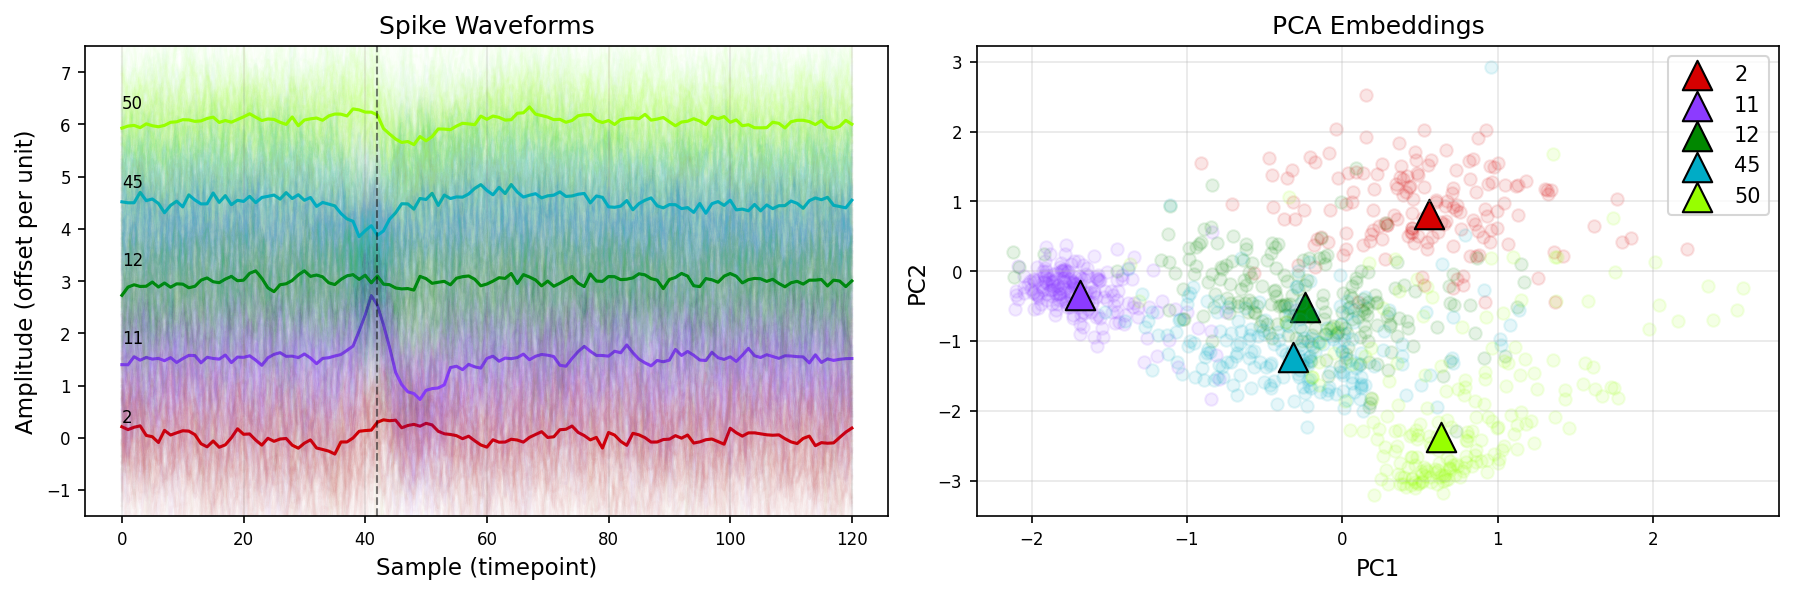
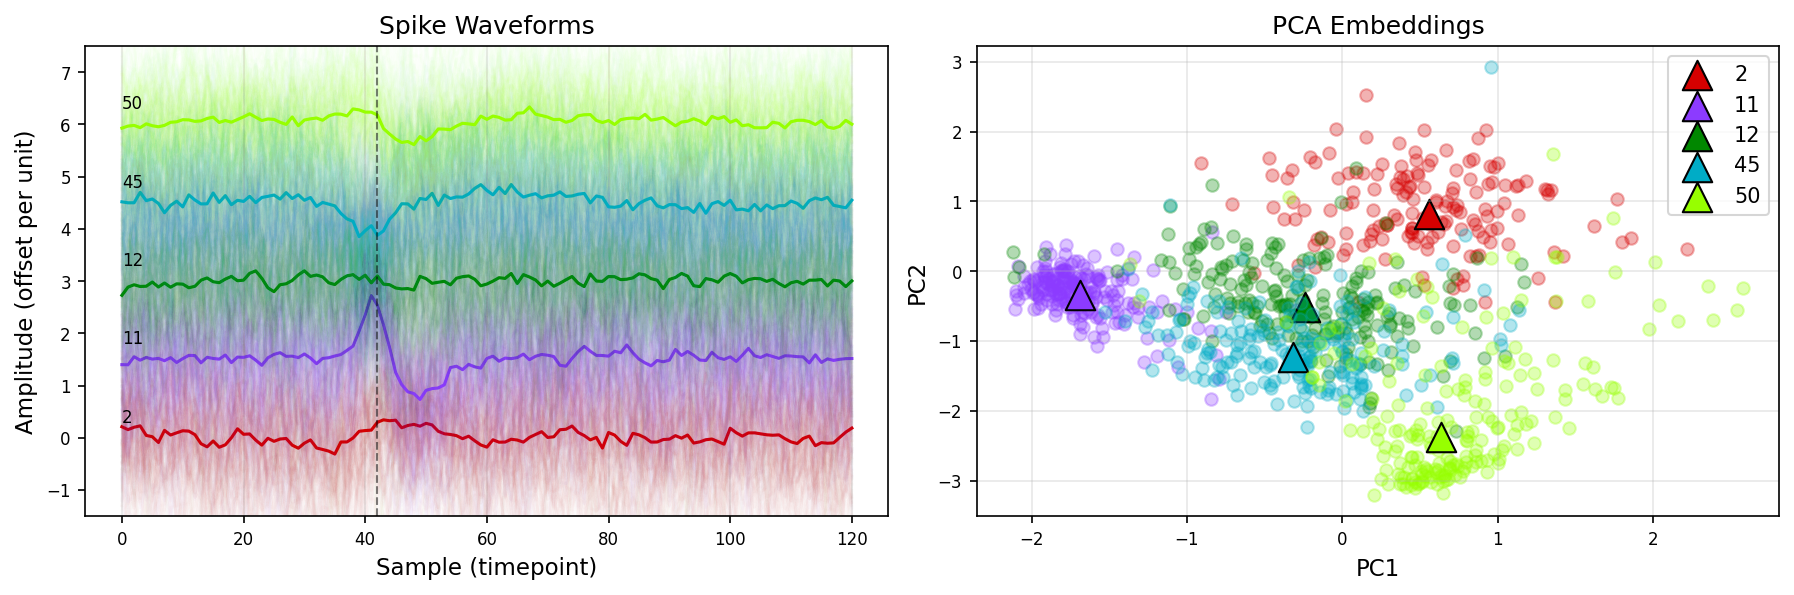
celltype_not_really

diff --git a/notebooks/infer.py b/notebooks/infer.py
@@ -183,7 +183,7 @@ for i, unit_id in enumerate(unit_ids):
         
     print(f"Unit {unit_id}: Marker at ({pc_template_emb[0]:.3f}, {pc_template_emb[1]:.3f})")
     
-    axes.scatter(unit_ceed_emb[:,0], unit_ceed_emb[:,1], color=colors[i], alpha=.2)
+    axes.scatter(unit_ceed_emb[:,0], unit_ceed_emb[:,1], color=colors[i], alpha=.3)
     axes.scatter(pc_template_emb[0], pc_template_emb[1], color=colors[i], alpha=1,
                 marker="^", s=200, label=str(unit_id), edgecolors='black', linewidths=1)
 
@@ -255,7 +255,7 @@ for i, unit_id in enumerate(unit_ids):
     axes[0].plot(template.T + vertical_offset, color=colors[i], alpha=1)
     axes[0].annotate(str(unit_id), xy=(0,vertical_offset+.3))
     vertical_offset += 1.5
-    axes[1].scatter(unit_ceed_emb[:,0], unit_ceed_emb[:,1], color=colors[i], alpha=.1)
+    axes[1].scatter(unit_ceed_emb[:,0], unit_ceed_emb[:,1], color=colors[i], alpha=.3)
     axes[1].scatter(pc_template_emb[0], pc_template_emb[1], color=colors[i], alpha=1,
                    marker="^", s=200, label=str(unit_id), edgecolors='black', linewidths=1)
 
@@ -303,7 +303,7 @@ for i, unit_id in enumerate(unit_ids):
     vertical_offset += 1.5
     
     # For UMAP, use median of embeddings (can't project new samples through fitted UMAP)
-    axes[1].scatter(unit_ceed_emb[:,0], unit_ceed_emb[:,1], color=colors[i], alpha=.1)
+    axes[1].scatter(unit_ceed_emb[:,0], unit_ceed_emb[:,1], color=colors[i], alpha=.3)
     median_emb = np.median(unit_ceed_emb, 0)
     axes[1].scatter(median_emb[0], median_emb[1], color=colors[i], alpha=1,
                    marker='*', s=200, label=str(unit_id), 
@@ -328,14 +328,205 @@ plt.savefig('umap_embeddings_with_waveforms.png', dpi=150, bbox_inches='tight')
 print('Saved: umap_embeddings_with_waveforms.png')
 
 
-
-# %% [markdown]
-# ### Transform without a data folder
-
-# %%
 # same output as two cells above, but takes in actual data
 cell_type_inference_data = np.load(os.path.join(celltype_test_data, 'spikes_test.npy'))
 print("cell type data:", cell_type_inference_data.shape)
 transformed_inference_data = fc_celltype_ceed_5d.transform(cell_type_inference_data)
 print(transformed_inference_data.shape)
 
+
+# ...existing code...
+
+# %%
+# Automatic cell type discovery using GMM clustering (CEED's approach)
+from sklearn.mixture import GaussianMixture
+from sklearn.metrics import silhouette_score
+
+print("\n" + "="*60)
+print("AUTOMATIC CELL TYPE DISCOVERY WITH GMM")
+print("="*60)
+
+# Use the 5D embeddings (before PCA) for clustering
+embeddings_5d = fc_pca_ceed_emb_nonzero  # Shape: (N, 105) after flattening
+
+# Scan 1-10 clusters and select best by BIC
+n_clusters_range = range(2, 11)
+bic_scores = []
+silhouette_scores = []
+gmm_models = []
+
+for n_clusters in n_clusters_range:
+    gmm = GaussianMixture(n_components=n_clusters, 
+                          covariance_type='full',
+                          random_state=42,
+                          n_init=10)
+    gmm.fit(embeddings_5d)
+    bic = gmm.bic(embeddings_5d)
+    bic_scores.append(bic)
+    gmm_models.append(gmm)
+    
+    # Silhouette score (alternative metric)
+    labels_pred = gmm.predict(embeddings_5d)
+    sil_score = silhouette_score(embeddings_5d, labels_pred)
+    silhouette_scores.append(sil_score)
+    
+    print(f"n_clusters={n_clusters}: BIC={bic:.1f}, Silhouette={sil_score:.3f}")
+
+# Find elbow in BIC curve
+bic_scores = np.array(bic_scores)
+bic_diffs = np.diff(bic_scores)
+bic_diffs2 = np.diff(bic_diffs)  # Second derivative
+elbow_idx = np.argmax(bic_diffs2) + 1  # +1 for diff offset, +1 for range start
+n_clusters_elbow = list(n_clusters_range)[elbow_idx]
+
+# Use minimum BIC as final choice
+n_clusters_best = list(n_clusters_range)[np.argmin(bic_scores)]
+
+print(f"\n*** Best by BIC minimum: {n_clusters_best} clusters ***")
+print(f"*** Best by BIC elbow: {n_clusters_elbow} clusters ***")
+
+# Use BIC minimum (standard approach)
+best_gmm = gmm_models[np.argmin(bic_scores)]
+celltype_labels_gmm = best_gmm.predict(embeddings_5d)
+
+# Create cell type names based on waveform characteristics
+celltype_names_gmm = {}
+for ct_id in np.unique(celltype_labels_gmm):
+    ct_spikes = spikes_nonzero[celltype_labels_gmm == ct_id]
+    ct_template = np.median(ct_spikes, 0)
+    
+    # Calculate spike width (trough to peak)
+    trough_idx = np.argmin(ct_template)
+    peak_idx = np.argmax(ct_template)
+    spike_width = abs(peak_idx - trough_idx)
+    
+    # Classify as narrow or broad
+    if spike_width < 15:
+        celltype_names_gmm[ct_id] = f'Type {ct_id}: Narrow-spiking'
+    elif spike_width < 25:
+        celltype_names_gmm[ct_id] = f'Type {ct_id}: Medium-spiking'
+    else:
+        celltype_names_gmm[ct_id] = f'Type {ct_id}: Broad-spiking'
+
+print(f"\nDiscovered cell types:")
+for ct_id, ct_name in celltype_names_gmm.items():
+    count = np.sum(celltype_labels_gmm == ct_id)
+    pct = 100 * count / len(celltype_labels_gmm)
+    print(f"  {ct_name}: {count} spikes ({pct:.1f}%)")
+
+# %%
+# Plot BIC curve and silhouette scores
+fig, axes = plt.subplots(1, 2, figsize=(12, 4))
+
+# Left: BIC curve
+axes[0].plot(list(n_clusters_range), bic_scores, 'bo-', linewidth=2, markersize=8)
+axes[0].axvline(n_clusters_best, color='red', linestyle='--', linewidth=2, 
+               label=f'Best (BIC min): {n_clusters_best}')
+axes[0].axvline(n_clusters_elbow, color='orange', linestyle='--', linewidth=2, 
+               label=f'Elbow: {n_clusters_elbow}')
+axes[0].set_xlabel('Number of clusters', fontsize=12)
+axes[0].set_ylabel('BIC (lower is better)', fontsize=12)
+axes[0].set_title('GMM Model Selection: BIC Curve', fontsize=13, fontweight='bold')
+axes[0].legend(fontsize=10)
+axes[0].grid(alpha=0.3)
+
+# Right: Silhouette scores
+axes[1].plot(list(n_clusters_range), silhouette_scores, 'go-', linewidth=2, markersize=8)
+axes[1].axvline(n_clusters_best, color='red', linestyle='--', linewidth=2, 
+               label=f'BIC choice: {n_clusters_best}')
+axes[1].set_xlabel('Number of clusters', fontsize=12)
+axes[1].set_ylabel('Silhouette score (higher is better)', fontsize=12)
+axes[1].set_title('Cluster Quality: Silhouette Score', fontsize=13, fontweight='bold')
+axes[1].legend(fontsize=10)
+axes[1].grid(alpha=0.3)
+
+plt.tight_layout()
+plt.savefig('gmm_model_selection.png', dpi=150, bbox_inches='tight')
+print('Saved: gmm_model_selection.png')
+
+# %%
+# Visualize discovered cell types
+fig, axes = plt.subplots(2, 2, figsize=(14, 10))
+
+unique_celltypes_gmm = np.unique(celltype_labels_gmm)
+colors_celltypes = cc.glasbey[:len(unique_celltypes_gmm)]
+
+# Top left: Cell type waveforms overlaid
+for i, ct_id in enumerate(unique_celltypes_gmm):
+    ct_spikes = spikes_nonzero[celltype_labels_gmm == ct_id]
+    ct_name = celltype_names_gmm.get(ct_id, f'Type {ct_id}')
+    
+    sample_idx = np.random.choice(len(ct_spikes), size=min(100, len(ct_spikes)), replace=False)
+    axes[0, 0].plot(ct_spikes[sample_idx].T, color=colors_celltypes[i], alpha=0.02)
+    
+    template = np.median(ct_spikes, 0)
+    axes[0, 0].plot(template, color=colors_celltypes[i], linewidth=3, label=ct_name)
+
+axes[0, 0].axvline(42, color='black', linestyle='--', alpha=0.5)
+axes[0, 0].set_xlabel('Sample (timepoint)', fontsize=11)
+axes[0, 0].set_ylabel('Amplitude', fontsize=11)
+axes[0, 0].set_title('Discovered Cell Type Waveforms', fontsize=12, fontweight='bold')
+axes[0, 0].legend(fontsize=9)
+axes[0, 0].grid(alpha=0.3, axis='x')
+
+# Top right: Cell type waveforms stacked
+vertical_offset = 0
+for i, ct_id in enumerate(unique_celltypes_gmm):
+    ct_spikes = spikes_nonzero[celltype_labels_gmm == ct_id]
+    ct_name = celltype_names_gmm.get(ct_id, f'Type {ct_id}')
+    
+    sample_idx = np.random.choice(len(ct_spikes), size=min(50, len(ct_spikes)), replace=False)
+    axes[0, 1].plot(ct_spikes[sample_idx].T + vertical_offset, 
+                   color=colors_celltypes[i], alpha=0.05, linewidth=0.5)
+    
+    template = np.median(ct_spikes, 0)
+    axes[0, 1].plot(template + vertical_offset, color=colors_celltypes[i], linewidth=2.5)
+    axes[0, 1].annotate(ct_name, xy=(5, vertical_offset + 0.5), fontsize=9, fontweight='bold')
+    vertical_offset += 2.5
+
+axes[0, 1].axvline(42, color='black', linestyle='--', alpha=0.5)
+axes[0, 1].set_xlabel('Sample (timepoint)', fontsize=11)
+axes[0, 1].set_ylabel('Amplitude (offset per type)', fontsize=11)
+axes[0, 1].set_title('Stacked Cell Type Waveforms', fontsize=12, fontweight='bold')
+axes[0, 1].set_ylim(-1, vertical_offset)
+axes[0, 1].grid(alpha=0.3, axis='x')
+
+# Bottom left: PCA embeddings colored by discovered cell types
+for i, ct_id in enumerate(unique_celltypes_gmm):
+    ct_emb = fc_pca_ceed_emb[celltype_labels_gmm == ct_id]
+    ct_name = celltype_names_gmm.get(ct_id, f'Type {ct_id}')
+    axes[1, 0].scatter(ct_emb[:, 0], ct_emb[:, 1], 
+                      color=colors_celltypes[i], alpha=0.4, s=15, label=ct_name)
+    centroid = np.median(ct_emb, axis=0)
+    axes[1, 0].scatter(centroid[0], centroid[1], 
+                      color=colors_celltypes[i], marker='*', s=500, 
+                      edgecolors='black', linewidths=2, zorder=10)
+
+axes[1, 0].set_xlabel('PC1', fontsize=11)
+axes[1, 0].set_ylabel('PC2', fontsize=11)
+axes[1, 0].set_title('PCA: GMM-Discovered Cell Types', fontsize=12, fontweight='bold')
+axes[1, 0].legend(fontsize=9)
+axes[1, 0].grid(alpha=0.3)
+
+# Bottom right: UMAP embeddings colored by discovered cell types
+for i, ct_id in enumerate(unique_celltypes_gmm):
+    ct_emb = fc_umap_ceed_emb[celltype_labels_gmm == ct_id]
+    ct_name = celltype_names_gmm.get(ct_id, f'Type {ct_id}')
+    axes[1, 1].scatter(ct_emb[:, 0], ct_emb[:, 1], 
+                      color=colors_celltypes[i], alpha=0.4, s=15, label=ct_name)
+    centroid = np.median(ct_emb, axis=0)
+    axes[1, 1].scatter(centroid[0], centroid[1], 
+                      color=colors_celltypes[i], marker='*', s=500, 
+                      edgecolors='black', linewidths=2, zorder=10)
+
+axes[1, 1].set_xlabel('UMAP1', fontsize=11)
+axes[1, 1].set_ylabel('UMAP2', fontsize=11)
+axes[1, 1].set_title('UMAP: GMM-Discovered Cell Types', fontsize=12, fontweight='bold')
+axes[1, 1].legend(fontsize=9)
+axes[1, 1].grid(alpha=0.3)
+
+plt.tight_layout()
+plt.savefig('gmm_discovered_celltypes.png', dpi=150, bbox_inches='tight')
+print('Saved: gmm_discovered_celltypes.png')
+
+# ...existing code...
